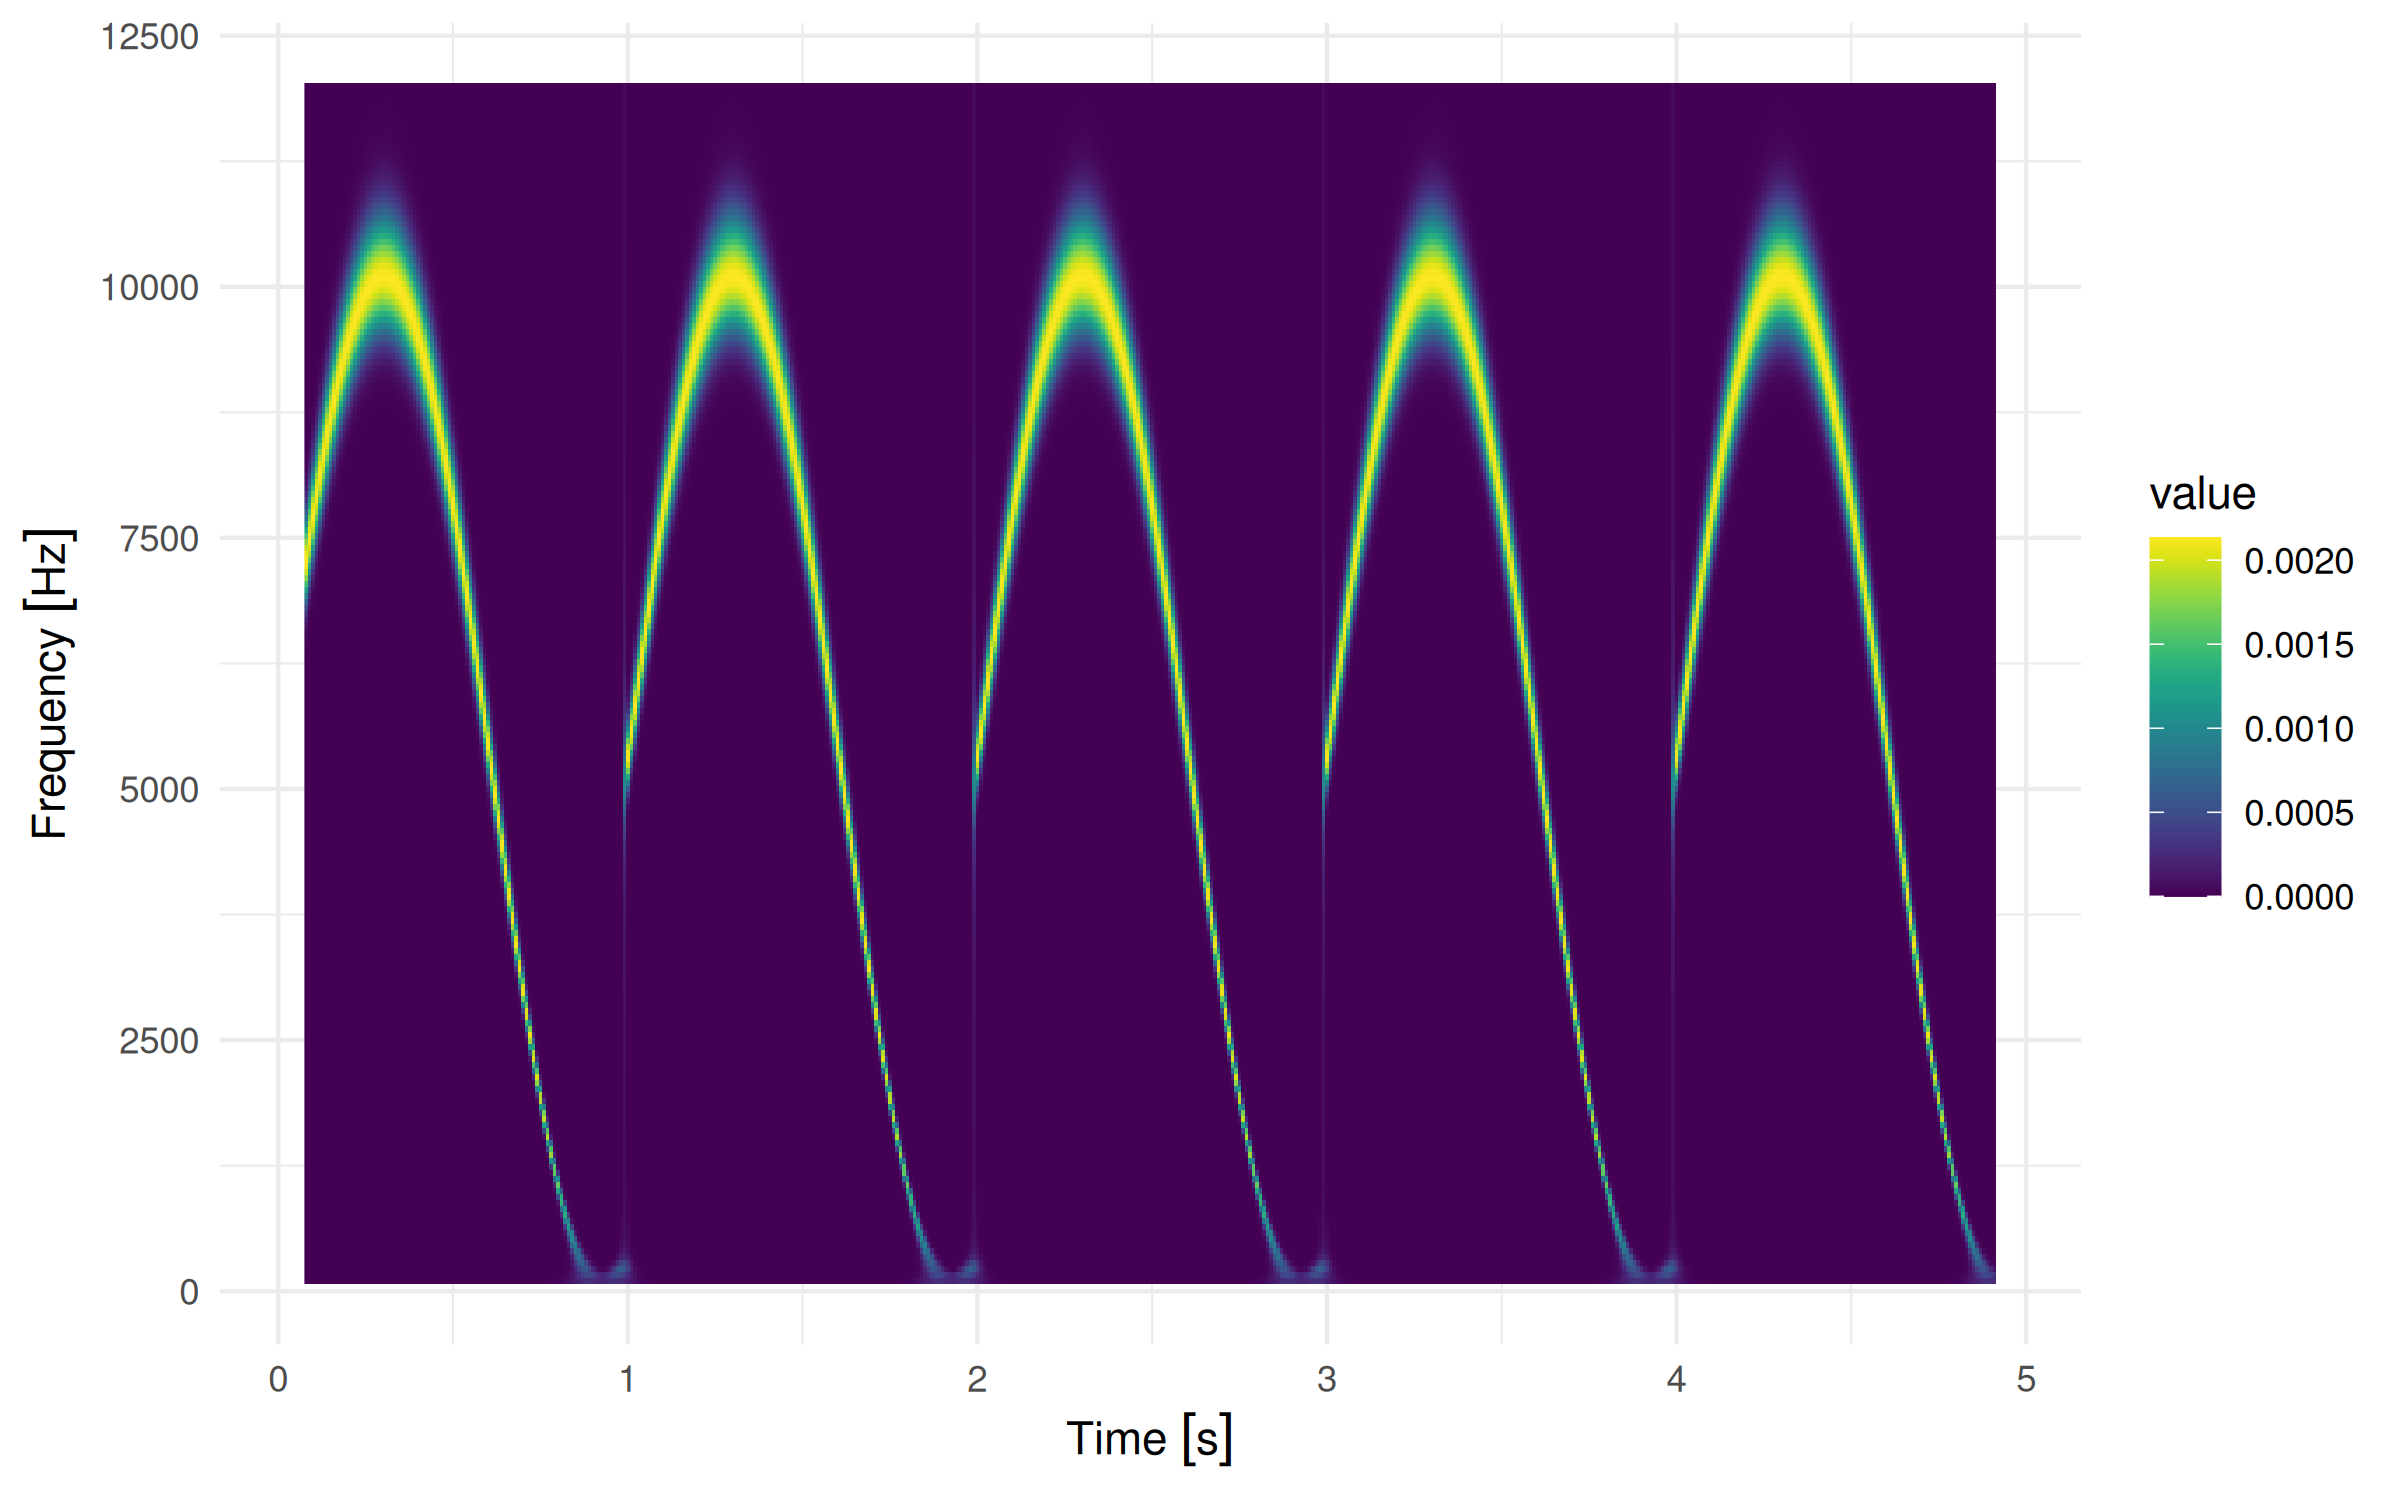
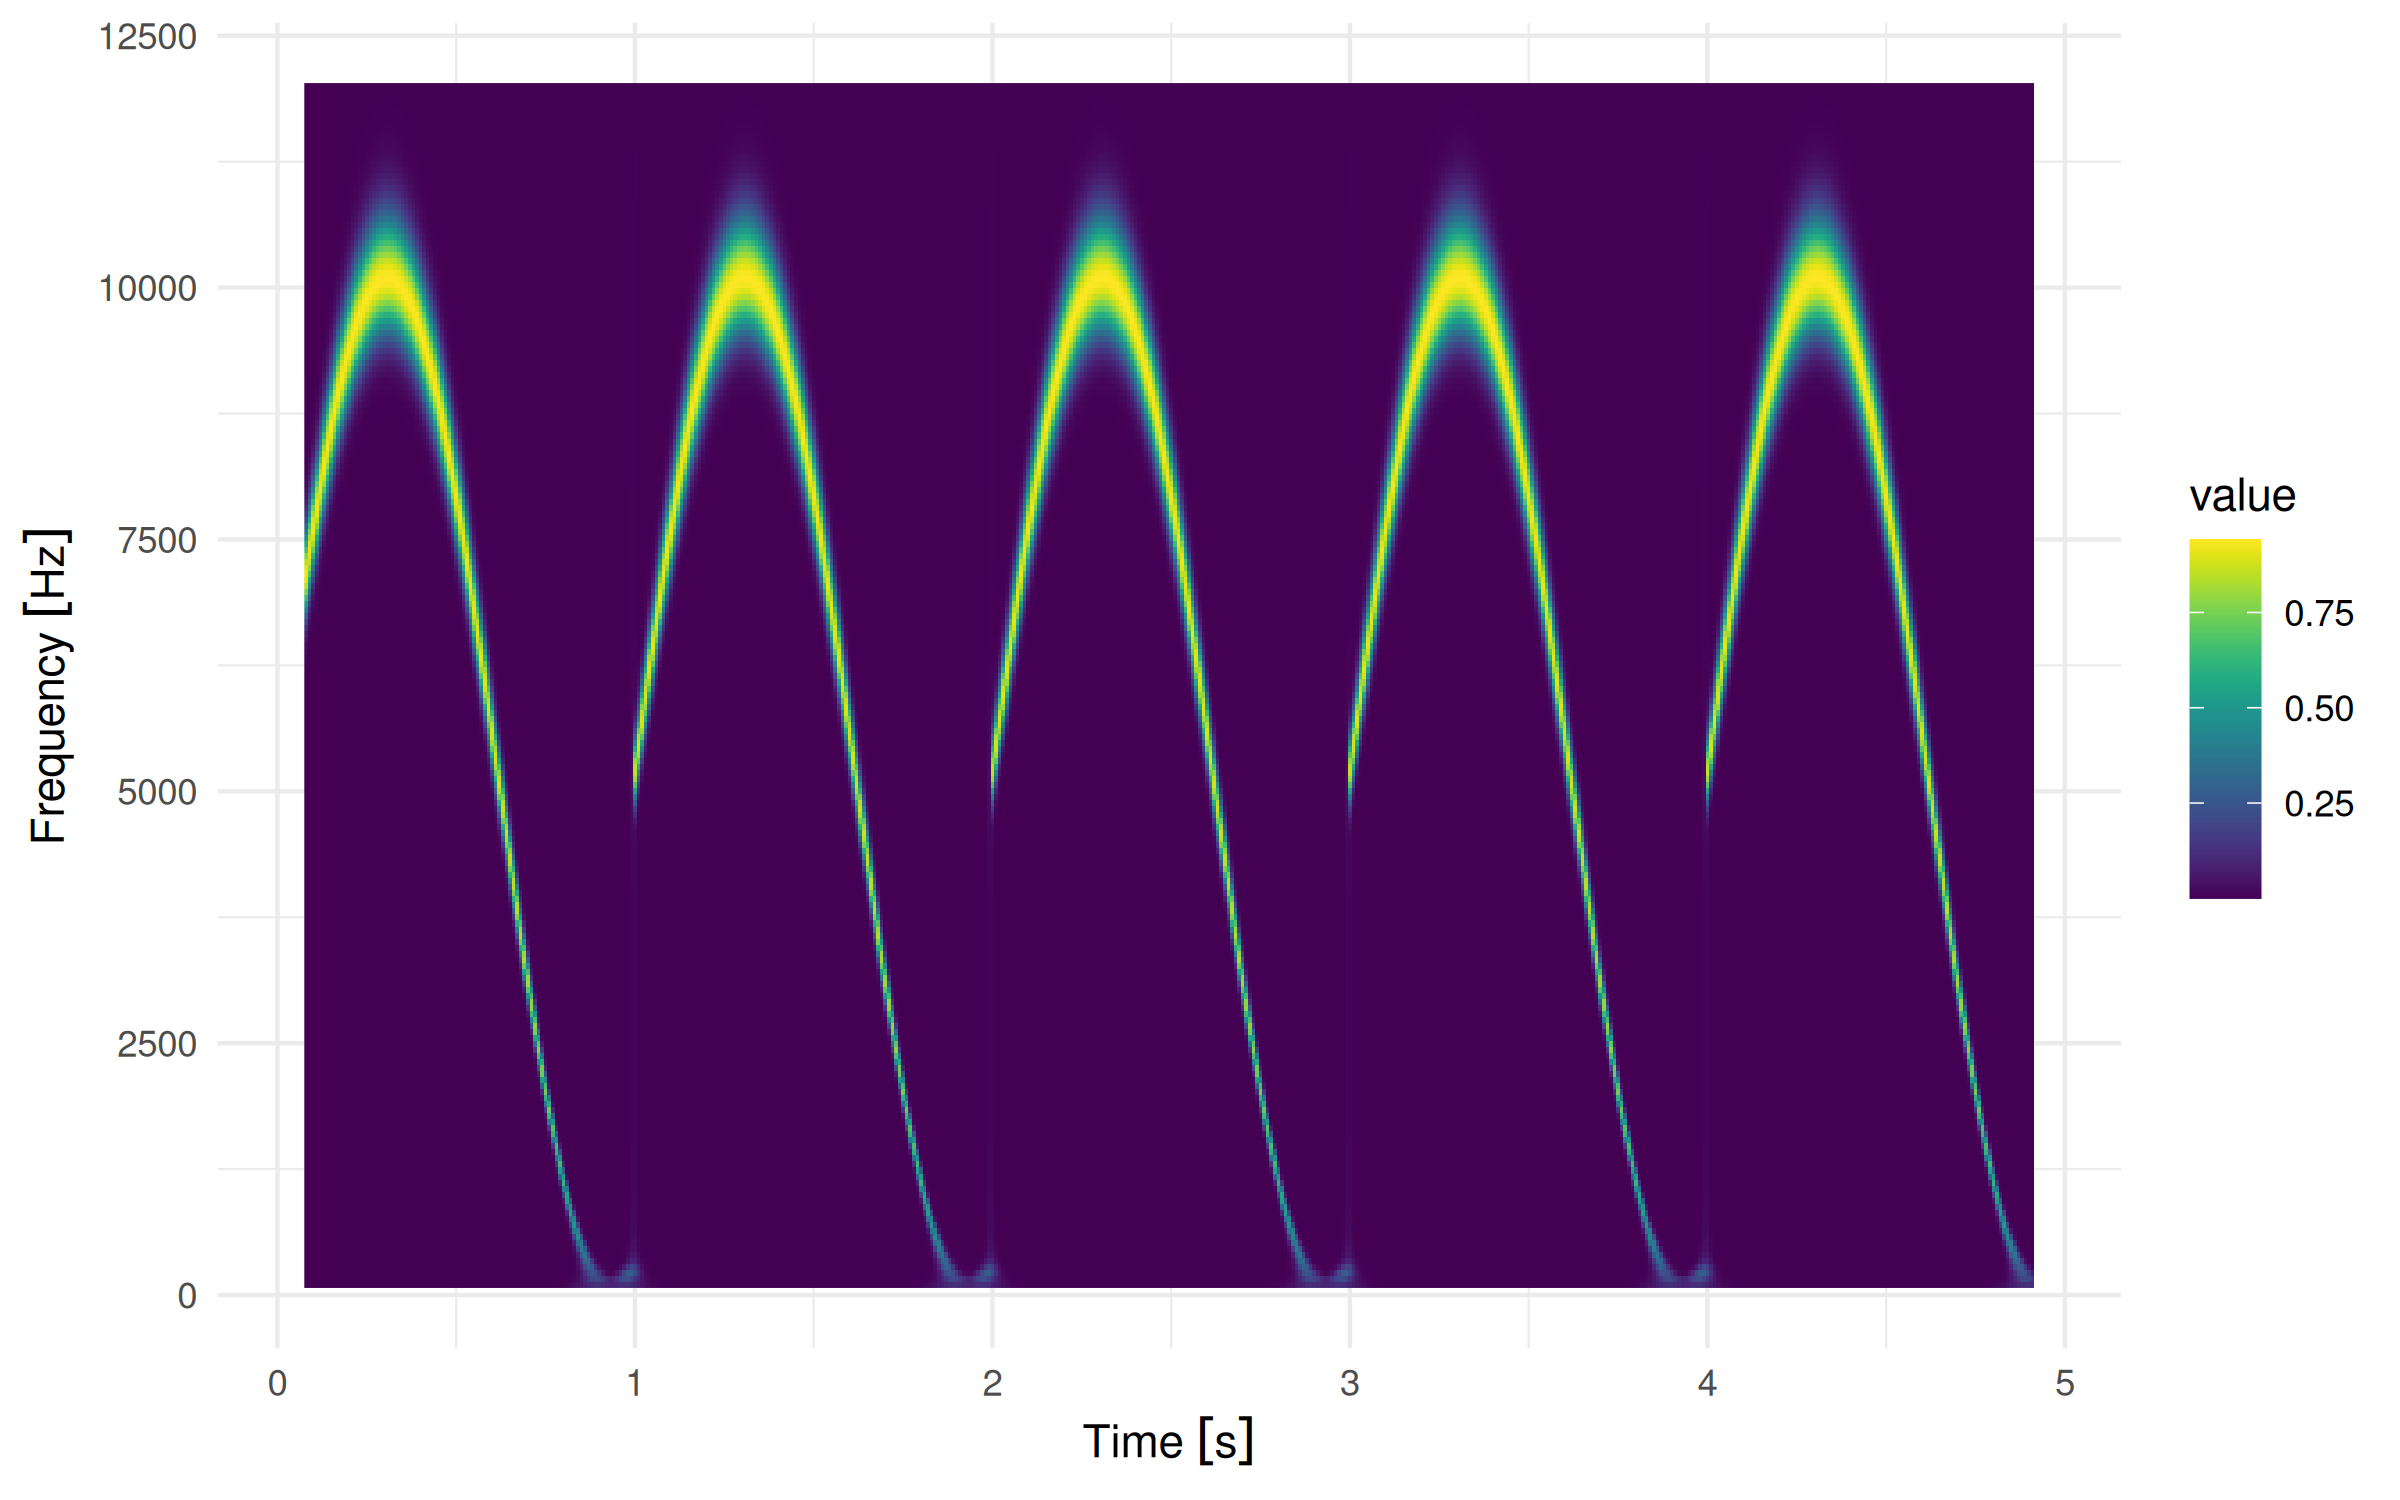
rerendering README

diff --git a/README.md b/README.md
@@ -128,7 +128,7 @@ output
 #>   o Relative frequency resolution:  0.127324 
 #> * Time/frequency matrix summary
 #>    Min. 1st Qu.  Median    Mean 3rd Qu.    Max.    NA's 
-#>   0.000   0.000   0.000   0.003   0.001   0.064    6671
+#>  0.0000  0.0001  0.0012  0.1278  0.0345  2.8091    6671
 ```
 
 The result can also be converted into a data frame:
@@ -141,12 +141,12 @@ as.data.frame(output) |>
 #> 2           1 0.001 [s] 2100 [Hz]           NA
 #> 3           2 0.002 [s] 2100 [Hz]           NA
 #> 4           3 0.003 [s] 2100 [Hz]           NA
-#> 5           4 0.004 [s] 2100 [Hz] 5.170488e-05
-#> 6           5 0.005 [s] 2100 [Hz] 2.023599e-05
-#> 7           6 0.006 [s] 2100 [Hz] 7.007858e-06
-#> 8           7 0.007 [s] 2100 [Hz] 2.413503e-06
-#> 9           8 0.008 [s] 2100 [Hz] 1.058135e-06
-#> 10          9 0.009 [s] 2100 [Hz] 6.853825e-07
+#> 5           4 0.004 [s] 2100 [Hz] 3.461469e-03
+#> 6           5 0.005 [s] 2100 [Hz] 1.478523e-03
+#> 7           6 0.006 [s] 2100 [Hz] 5.462569e-04
+#> 8           7 0.007 [s] 2100 [Hz] 1.859199e-04
+#> 9           8 0.008 [s] 2100 [Hz] 6.946518e-05
+#> 10          9 0.009 [s] 2100 [Hz] 3.650397e-05
 ```
 
 We can also directly plot the resulting scalogram:
@@ -155,7 +155,7 @@ We can also directly plot the resulting scalogram:
 plot(output, time_unit = "ms")
 ```
 
-<img src="man/figures/README-example_plot-1.png" width="100%" />
+<img src="man/figures/README-example_plot-1.png" alt="" width="100%" />
 
 For long sequences, the required memory can exceed your available local
 memory. In this case it can be useful to reduce the time resolution of
@@ -179,6 +179,6 @@ batch_result <-
 plot(batch_result)
 ```
 
-<img src="man/figures/README-example_long_df-1.png" width="100%" />
+<img src="man/figures/README-example_long_df-1.png" alt="" width="100%" />
 
 <!-- regenerate with devtools::build_readme() -->
